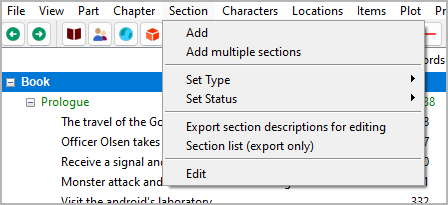
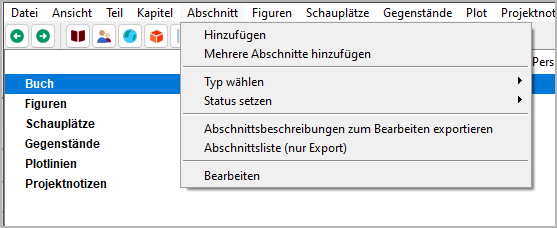
Add German screenshots

Changed region(s): [[0.0, 0.0, 1.0, 0.9951], [0.125, 0.9659, 0.4688, 0.9951], [0.9062, 0.9659, 0.9688, 0.9951]]

diff --git a/source/section_menu.rst b/source/section_menu.rst
@@ -33,6 +33,9 @@ Mehrere Abschnitte hinzufügen
 
 **Hinzufügen new sections in bulk**
 
+.. figure:: _images/section_menu04.png
+   :alt: novelibre screenshot
+
 With **Abschnitt > Mehrere Abschnitte hinzufügen**,
 you can add up to 20 sections to the tree.
 
